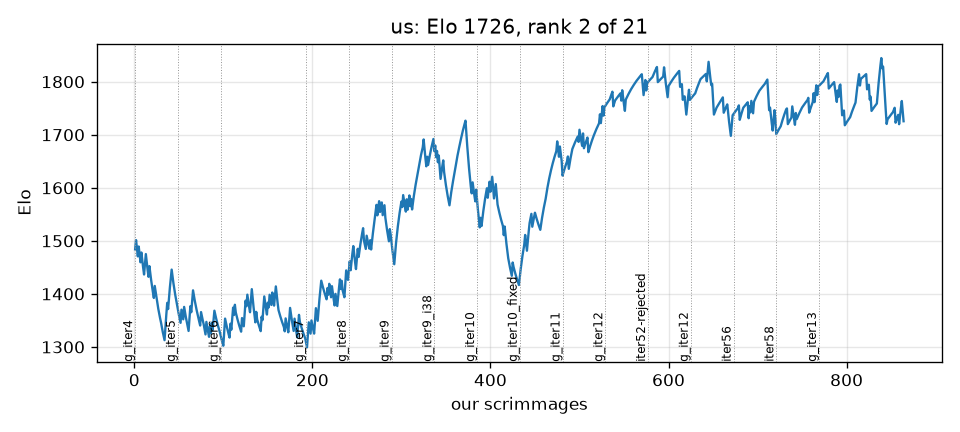
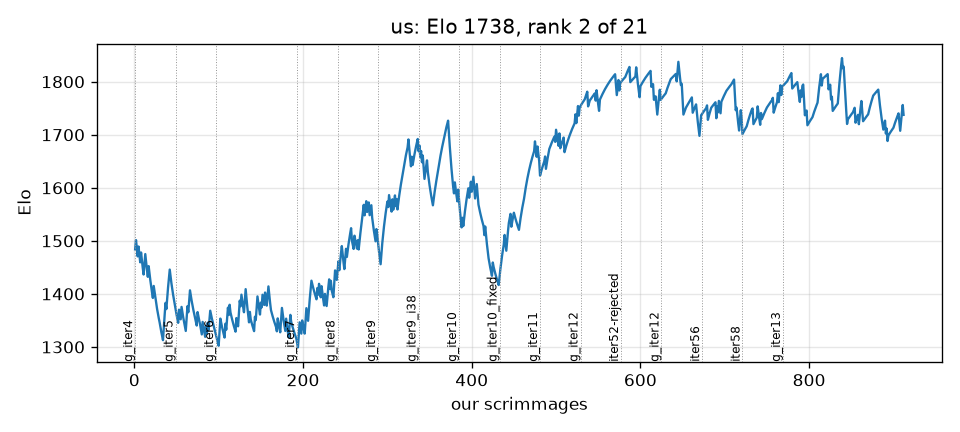
g_iter13 fourth ladder block 37/48; four-block totals 151/192
Claude-Session: https://claude.ai/code/session_01VgeNHsn9ncLsLui8RaK6L7

Changed region(s): [[0.1562, 0.1505, 0.9688, 0.9028], [0.8125, 0.7222, 0.9062, 0.9028], [0.5, 0.0301, 0.5312, 0.0903]]

diff --git a/BENCHMARK.md b/BENCHMARK.md
@@ -86,7 +86,7 @@ above the 20% line, so every bot we have played may be reviewed.
 | `123kevinlee.atomAlphaV14` | 123kevinlee_Battlecode2021-TeamAtom (d121441) | - | - | untested |  |
 | `123kevinlee.atomFinal` | 123kevinlee_Battlecode2021-TeamAtom (d121441) | - | - | untested |  |
 | `123kevinlee.atomFinalHS` | 123kevinlee_Battlecode2021-TeamAtom (d121441) | - | - | untested |  |
-| `123kevinlee.atomFinalQualifier` | 123kevinlee_Battlecode2021-TeamAtom (d121441) | 100 | 12 | peer(>90 once) | 0 29 29 47 17 42 33 83 100 83 100 100 100 83 100 |
+| `123kevinlee.atomFinalQualifier` | 123kevinlee_Battlecode2021-TeamAtom (d121441) | 100 | 18 | peer(>90 once) | 0 29 29 47 17 42 33 83 100 83 100 100 100 83 100 |
 | `123kevinlee.atomFinalV22` | 123kevinlee_Battlecode2021-TeamAtom (d121441) | - | - | untested |  |
 | `123kevinlee.atomStorm` | 123kevinlee_Battlecode2021-TeamAtom (d121441) | - | - | untested |  |
 | `123kevinlee.atomV11` | 123kevinlee_Battlecode2021-TeamAtom (d121441) | - | - | untested |  |
@@ -171,7 +171,7 @@ above the 20% line, so every bot we have played may be reviewed.
 | `OliverMKing.oliverrushbot2` | OliverMKing_battlecode-2021 (14e4015) | - | - | untested |  |
 | `OliverMKing.templatebot` | OliverMKing_battlecode-2021 (14e4015) | - | - | untested |  |
 | `SLaGrave.AlphaCentauri` | SLaGrave_battlecode21 (9ae0ff4) | 100 | 6 | peer(>90 once) | 100 |
-| `Scott-Poole.spright8` | Scott-Poole_battlecode21 (57f898a) | 67 | 12 | peer | 7 12 39 17 25 50 33 33 50 67 67 83 92 83 83 100 67 |
+| `Scott-Poole.spright8` | Scott-Poole_battlecode21 (57f898a) | 78 | 18 | peer | 7 12 39 17 25 50 33 33 50 67 67 83 92 83 83 100 78 |
 | `Sihal3.cavShieldv05` | Sihal3_cavshield (7a90425) | - | - | untested |  |
 | `Sihal3.cavShieldv1` | Sihal3_cavshield (7a90425) | - | - | untested |  |
 | `Sihal3.cavShieldv2` | Sihal3_cavshield (7a90425) | - | - | untested |  |
@@ -246,7 +246,7 @@ above the 20% line, so every bot we have played may be reviewed.
 | `angelaloh09.camelmanplayer_old` | angelaloh09_BattleCode2021-CamelMan (1a1ad19) | - | - | untested |  |
 | `anshgs.ho4` | anshgs_Fandead (00ef0fd) | 17 | 6 | locked | 7 14 17 |
 | `arya-k.quals` | arya-k_bc21 (7791795) | - | - | untested |  |
-| `arya-k.quals_v1` | arya-k_bc21 (7791795) | 100 | 12 | peer(>90 once) | 50 42 39 67 42 67 83 83 100 100 100 83 83 100 |
+| `arya-k.quals_v1` | arya-k_bc21 (7791795) | 100 | 18 | peer(>90 once) | 50 42 39 67 42 67 83 83 100 100 100 83 83 100 |
 | `arya-k.refactor` | arya-k_bc21 (7791795) | - | - | untested |  |
 | `arya-k.seeding` | arya-k_bc21 (7791795) | - | - | untested |  |
 | `arya-k.seeding_bad_econ` | arya-k_bc21 (7791795) | - | - | untested |  |
@@ -291,7 +291,7 @@ above the 20% line, so every bot we have played may be reviewed.
 | `awesomelemonade.pdefense2` | awesomelemonade_battlecode-2021 (e9c4afc) | - | - | untested |  |
 | `awesomelemonade.ppbot` | awesomelemonade_battlecode-2021 (e9c4afc) | - | - | untested |  |
 | `awesomelemonade.spreadout` | awesomelemonade_battlecode-2021 (e9c4afc) | - | - | untested |  |
-| `awesomelemonade.sprint1bot` | awesomelemonade_battlecode-2021 (e9c4afc) | 58 | 12 | peer | 0 25 0 0 0 17 33 0 0 0 33 33 33 50 33 58 |
+| `awesomelemonade.sprint1bot` | awesomelemonade_battlecode-2021 (e9c4afc) | 39 | 18 | target | 0 25 0 0 0 17 33 0 0 0 33 33 33 50 33 39 |
 | `awesomelemonade.trollbigps` | awesomelemonade_battlecode-2021 (e9c4afc) | - | - | untested |  |
 | `awesomelemonade.v1_10` | awesomelemonade_battlecode-2021 (e9c4afc) | - | - | untested |  |
 | `awesomelemonade.waves` | awesomelemonade_battlecode-2021 (e9c4afc) | - | - | untested |  |
@@ -320,7 +320,7 @@ above the 20% line, so every bot we have played may be reviewed.
 | `evan-schott.bugplayer` | evan-schott_battlecode2021 (1d7b865) | 100 | 6 | peer(>90 once) | 100 |
 | `evan-schott.nullplayer` | evan-schott_battlecode2021 (1d7b865) | - | - | untested |  |
 | `evan-schott.simpleplayer` | evan-schott_battlecode2021 (1d7b865) | - | - | untested |  |
-| `iliao2345.attacker` | iliao2345_Battlecode2021 (d620569) | 42 | 12 | target | 21 31 37 17 42 50 83 100 67 83 100 100 100 42 |
+| `iliao2345.attacker` | iliao2345_Battlecode2021 (d620569) | 50 | 18 | peer | 21 31 37 17 42 50 83 100 67 83 100 100 100 50 |
 | `iliao2345.buryguard` | iliao2345_Battlecode2021 (d620569) | - | - | untested |  |
 | `iliao2345.donothing` | iliao2345_Battlecode2021 (d620569) | - | - | untested |  |
 | `iliao2345.explore_test` | iliao2345_Battlecode2021 (d620569) | - | - | untested |  |
@@ -388,7 +388,7 @@ above the 20% line, so every bot we have played may be reviewed.
 | `jmerle.camel_case_v4` | jmerle_battlecode-2021 (5f4a269) | - | - | untested |  |
 | `jmerle.camel_case_v5` | jmerle_battlecode-2021 (5f4a269) | - | - | untested |  |
 | `jmerle.camel_case_v6_sprint_1` | jmerle_battlecode-2021 (5f4a269) | - | - | untested |  |
-| `jmerle.camel_case_v7_sprint_2` | jmerle_battlecode-2021 (5f4a269) | 100 | 12 | solved | 14 38 45 17 42 17 67 50 100 100 100 100 100 100 100 100 |
+| `jmerle.camel_case_v7_sprint_2` | jmerle_battlecode-2021 (5f4a269) | 100 | 18 | solved | 14 38 45 17 42 17 67 50 100 100 100 100 100 100 100 100 |
 | `mama4294.Maloneplayer` | mama4294_Battlecode21 (583166a) | 100 | 6 | peer(>90 once) | 100 |
 | `max-titov.ECtest` | max-titov_2021.battlecode-KFA (168559c) | - | - | untested |  |
 | `max-titov.commsplayer` | max-titov_2021.battlecode-KFA (168559c) | - | - | untested |  |
@@ -396,7 +396,7 @@ above the 20% line, so every bot we have played may be reviewed.
 | `max-titov.navtest` | max-titov_2021.battlecode-KFA (168559c) | - | - | untested |  |
 | `max-titov.navtest2` | max-titov_2021.battlecode-KFA (168559c) | - | - | untested |  |
 | `max-titov.playertemplate` | max-titov_2021.battlecode-KFA (168559c) | - | - | untested |  |
-| `max-titov.sprintplayer` | max-titov_2021.battlecode-KFA (168559c) | 92 | 12 | peer(>90 once) | 25 33 45 67 25 67 67 100 100 92 67 67 83 92 |
+| `max-titov.sprintplayer` | max-titov_2021.battlecode-KFA (168559c) | 94 | 18 | peer(>90 once) | 25 33 45 67 25 67 67 100 100 92 67 67 83 94 |
 | `max-titov.voting_test` | max-titov_2021.battlecode-KFA (168559c) | - | - | untested |  |
 | `mhahn2003.bug` | mhahn2003_bc21 (175fd93) | - | - | untested |  |
 | `mhahn2003.coms` | mhahn2003_bc21 (175fd93) | - | - | untested |  |
@@ -518,7 +518,7 @@ above the 20% line, so every bot we have played may be reviewed.
 | `rzhan11.muckspam` | rzhan11_Battlecode2021 (f21c274) | - | - | untested |  |
 | `rzhan11.newday` | rzhan11_Battlecode2021 (f21c274) | - | - | untested |  |
 | `rzhan11.sprint` | rzhan11_Battlecode2021 (f21c274) | - | - | untested |  |
-| `rzhan11.sprint2` | rzhan11_Battlecode2021 (f21c274) | 67 | 12 | peer | 0 11 0 8 33 17 33 33 0 33 67 42 50 33 67 67 |
+| `rzhan11.sprint2` | rzhan11_Battlecode2021 (f21c274) | 61 | 18 | peer | 0 11 0 8 33 17 33 33 0 33 67 42 50 33 67 61 |
 | `rzhan11.template` | rzhan11_Battlecode2021 (f21c274) | - | - | untested |  |
 | `rzhan11.wander_defense` | rzhan11_Battlecode2021 (f21c274) | - | - | untested |  |
 | `saivivekvenna.Ba_ba_booie` | saivivekvenna_BattleCode-2021 (636ec61) | 100 | 6 | peer(>90 once) | 100 |

diff --git a/progress/ELO.md b/progress/ELO.md
@@ -1,19 +1,19 @@
 # Elo ladder
 
-864 scrimmages (ours only); K=32 from 1500; our team is **us**: rank 2 of 21 rated bots, Elo 1726, 864 games; 45 bots not yet met.
+912 scrimmages (ours only); K=32 from 1500; our team is **us**: rank 2 of 21 rated bots, Elo 1738, 912 games; 45 bots not yet met.
 
 | rank | bot | Elo | games | W-L (theirs) |
 |---|---|---|---|---|
-| 1 | awesomelemonade.sprint1bot | 1793 | 108 | 84-24 |
-| 2 | **us** | 1726 | 864 | 512-352 |
-| 3 | rzhan11.sprint2 | 1714 | 108 | 72-36 |
+| 1 | awesomelemonade.sprint1bot | 1868 | 114 | 90-24 |
+| 2 | **us** | 1738 | 912 | 549-363 |
+| 3 | rzhan11.sprint2 | 1717 | 114 | 75-39 |
 | 4 | rqi3.qualification_bot | 1641 | 12 | 11-1 |
 | 5 | BSreenivas0713.musketeerplayerfinal | 1569 | 6 | 5-1 |
 | 6 | iyzg.sbot17 | 1561 | 6 | 5-1 |
 | 7 | VittalT.final_usqualplayer3_subm | 1552 | 6 | 4-2 |
-| 8 | iliao2345.attacker | 1541 | 90 | 33-57 |
+| 8 | iliao2345.attacker | 1552 | 96 | 35-61 |
 | 9 | StoneT2000.sprinttuna | 1531 | 6 | 3-3 |
-| 10 | Scott-Poole.spright8 | 1510 | 108 | 44-64 |
+| 10 | Scott-Poole.spright8 | 1475 | 114 | 44-70 |
 | 11 | naalit.mukrush | 1458 | 6 | 0-6 |
 | 12 | unai-gurbindo.camelmanplayer | 1451 | 6 | 0-6 |
 | 13 | raytran.dlmoreram010921 | 1448 | 6 | 0-6 |
@@ -21,9 +21,9 @@
 | 15 | qawsedrftgzh.battlecode2021 | 1435 | 6 | 0-6 |
 | 16 | ChiragKalra.gen5 | 1429 | 6 | 0-6 |
 | 17 | astelmach20.piedPiper | 1422 | 6 | 0-6 |
-| 18 | max-titov.sprintplayer | 1422 | 90 | 23-67 |
-| 19 | arya-k.quals_v1 | 1302 | 90 | 19-71 |
-| 20 | 123kevinlee.atomFinalQualifier | 1282 | 90 | 23-67 |
-| 21 | jmerle.camel_case_v7_sprint_2 | 1278 | 102 | 26-76 |
+| 18 | max-titov.sprintplayer | 1395 | 96 | 23-73 |
+| 19 | arya-k.quals_v1 | 1290 | 96 | 19-77 |
+| 20 | 123kevinlee.atomFinalQualifier | 1269 | 96 | 23-73 |
+| 21 | jmerle.camel_case_v7_sprint_2 | 1263 | 108 | 26-82 |
 
 Not yet met (1500 until their first game against us): Ahhorse1.WinstonPlayer, Aryan34.bot, Aryo-Patel.finalBot, BattlecodeTeam4.robotalpha, BoluAdubi.bot1, BryceKan3.bot.tournament.sprint, IvanGeffner.thirtyone, JCRaymond.bot.tournament.sprint, JasonYe4273.finals, Mahpare.hackatrainee_v1, OliverMKing.bot.tournament.sprint, SLaGrave.AlphaCentauri, Sihal3.cavShieldv705, TeamSerpentine.mars, Techno-coder.muckrakers, TylerQube.sandmenplayer, Victoriano012.SprintBot2, abhishekshree.bot2, aidan-mundy.final_usqualplayer3_subm, alextheimer.player, ama29.v6, angelaloh09.camelmanplayer, anshgs.ho4, davidfang00.Rushbot3, diegorod9000.Newcomer, dominicmkennedy.playerj3, edlwang.sprint2, ehiggins98.initialbot, evan-schott.bugplayer, jay20162016.ecobot, mama4294.Maloneplayer, mhahn2003.finals, mhbtz1.presprint, mvpatel2000.biden, nickel-dime.piedPiper, nsortur.piedPiper, paulmure.sprintplayer, pranayagra.finalbot11, ryanbai1412.sprint_0, saivivekvenna.Ba_ba_booie, sasank02.framework3_mr_density, thevaliantthird.bot1, winkelmantanner.tannerplayer, woodstockcs.fanandflag, wstan2001.boundfinder

diff --git a/TRAINING_LOG.md b/TRAINING_LOG.md
@@ -5767,3 +5767,10 @@ cap: the mirror sees nothing, as the hedge intended. Ladder after recording: 864
 mirror, which fields no swarm, cannot see this change, and 49.6% is the neutrality METHOD 5b asks
 for before the ladder is allowed to decide. The ladder did: swarm bots 9/24 -> 21/36. `g_iter13`
 stands.
+
+## `g_iter13` fourth ladder block: 37/48; four blocks 151/192 (78.6%) (2026-09-22 22:05 UTC)
+
+Fourth block: awesomelemonade **0/6**, rzhan11 3/6, iliao2345 4/6, the rest 6/6. Six-game samples
+against one bot swing from 0 to 5; the four-block totals are the number to read: **awesomelemonade
+9/24 (37.5%), rzhan11 15/24 (62.5%)**, the six we beat 127/144 (88%). Against g_iter12's 96:
+awesomelemonade 33%, rzhan11 42%, the six 94%. Ladder after recording: 912 scrimmages (ours only); K=32 from 1500; our team is **us**: rank 2 of 21 rated bots, Elo 1738, 912 games; 

diff --git a/PROMPTS.md b/PROMPTS.md
@@ -456,3 +456,5 @@ Following up on earlier conversations, I'd like you to focus your enhanced intel
 > task check.  If the VM is idle and you're not working on anything, come up with a new idea.  Otherwise, continue as you are
 
 > task check.  If the VM is idle and you're not working on anything, come up with a new idea.  Otherwise, continue as you are
+
+> task check.  If the VM is idle and you're not working on anything, come up with a new idea.  Otherwise, continue as you are
